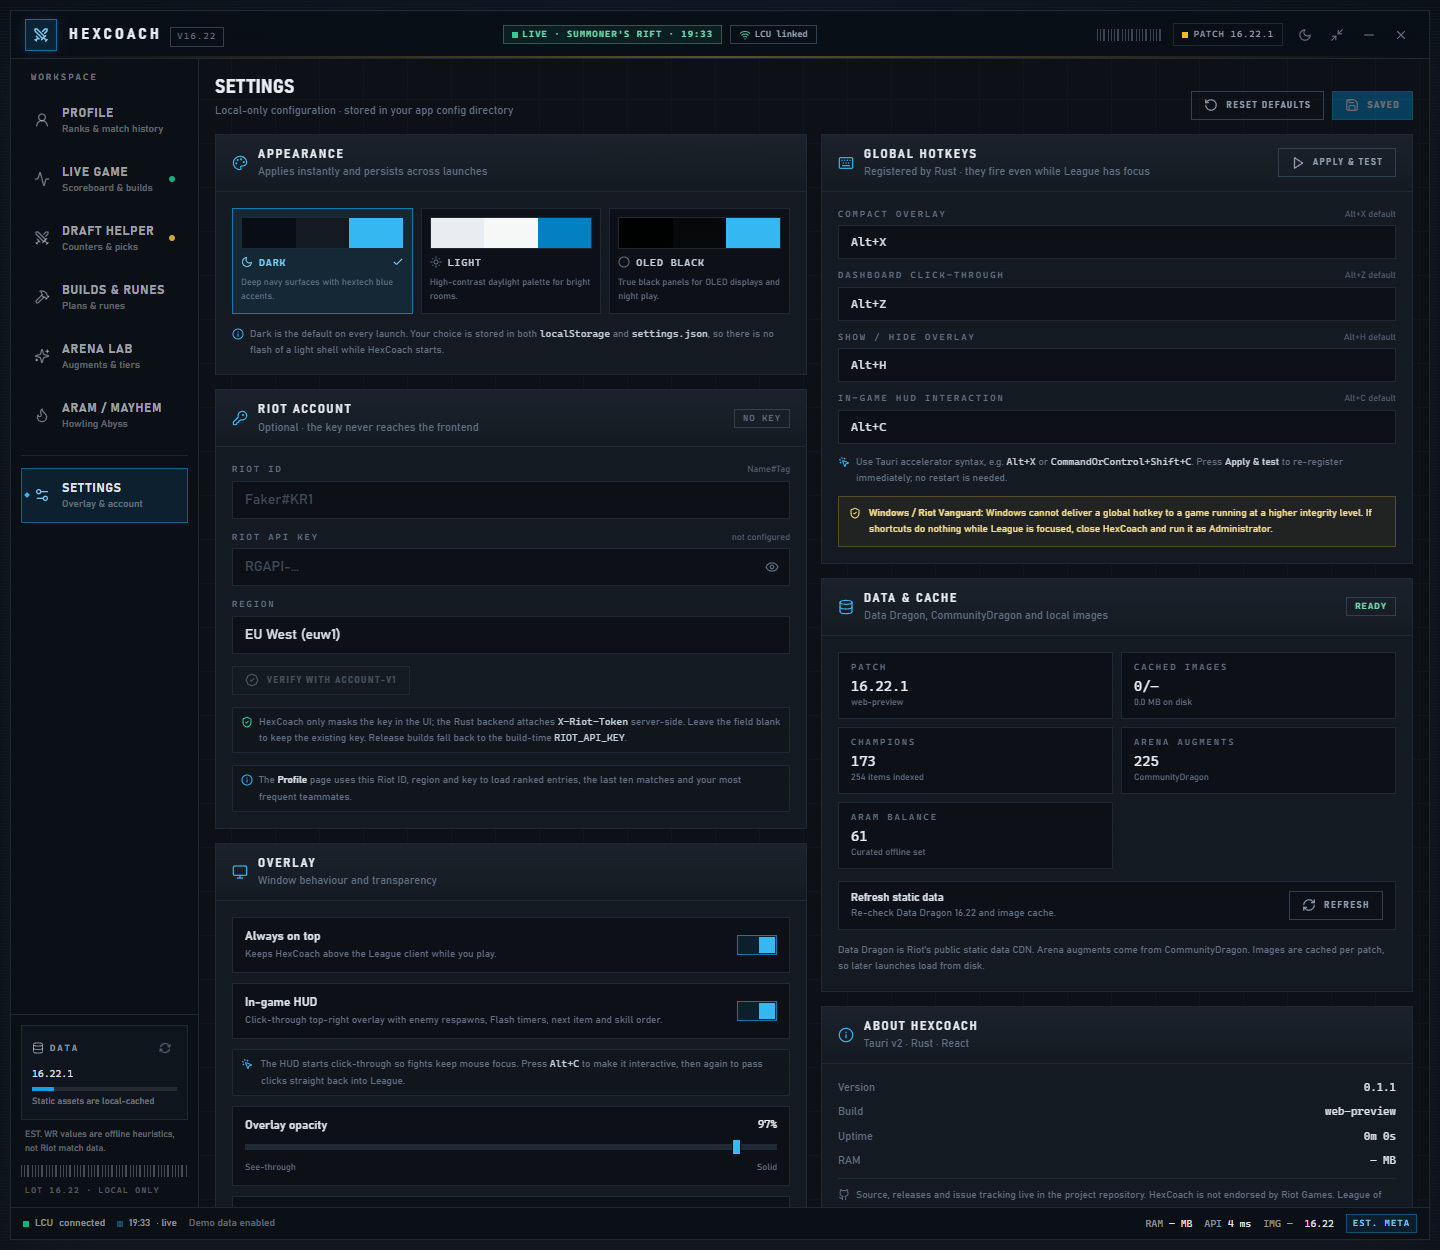
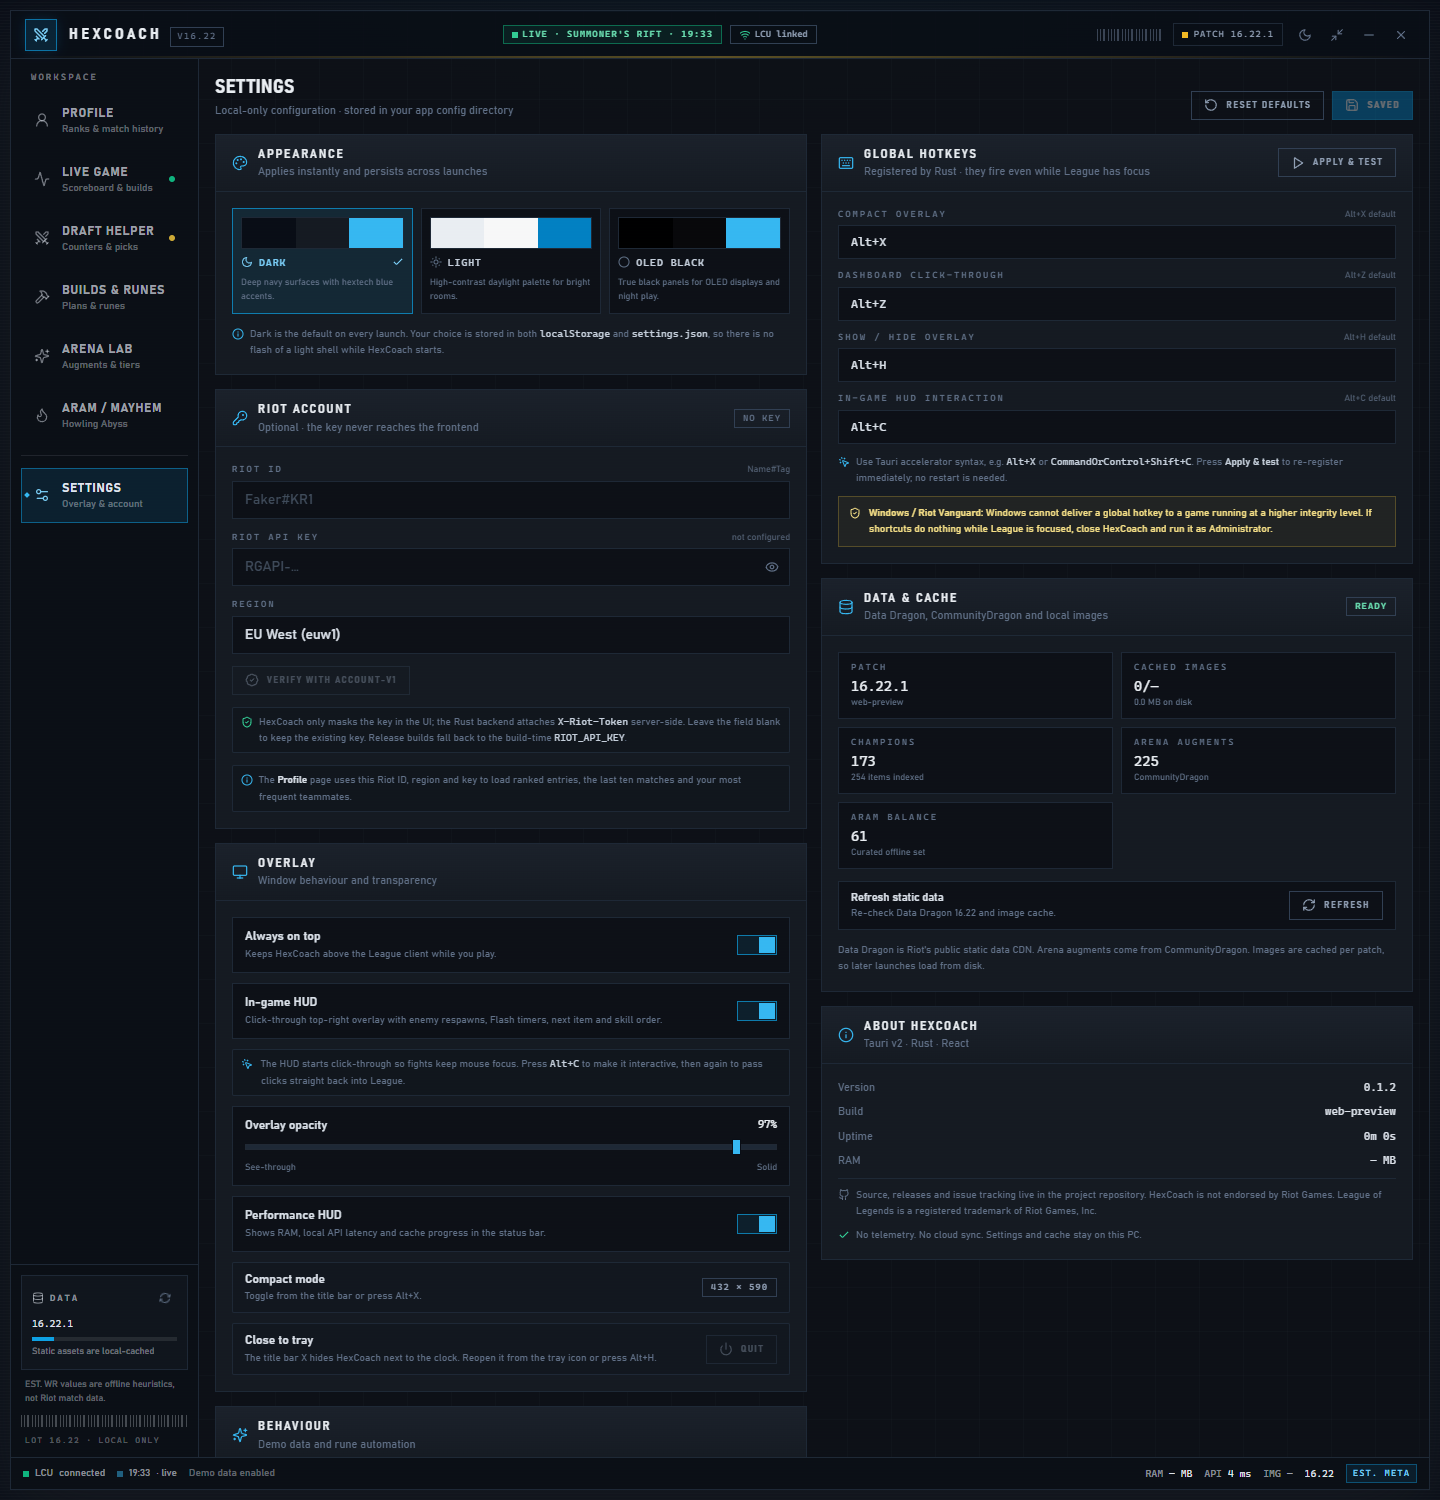
feat: minimize to system tray on close, release v0.1.2

diff --git a/src/pages/Settings.tsx b/src/pages/Settings.tsx
@@ -16,6 +16,7 @@ import {
   MousePointerClick,
   Palette,
   Play,
+  Power,
   RefreshCw,
   RotateCcw,
   Save,
@@ -25,7 +26,7 @@ import {
   Trash2,
 } from "lucide-react";
 import { DEFAULT_SETTINGS, REGIONS } from "@/lib/defaults";
-import { fetchRiotApi } from "@/lib/api";
+import { errorMessage, fetchRiotApi, quitApp } from "@/lib/api";
 import { isDesktop } from "@/lib/env";
 import { cn, shortPatch } from "@/lib/format";
 import { THEME_OPTIONS } from "@/lib/theme";
@@ -161,6 +162,14 @@ export default function SettingsPage() {
       region: draft.region,
     });
     pushToast("info", "Defaults restored", "Review the values, then save to apply.");
+  };
+
+  const quitHexCoach = async () => {
+    try {
+      await quitApp();
+    } catch (error) {
+      pushToast("error", "Could not quit HexCoach", errorMessage(error));
+    }
   };
 
   const applyHotkeyChanges = async () => {
@@ -468,6 +477,25 @@ export default function SettingsPage() {
               </div>
               <span className="chip">432 × 590</span>
             </div>
+            <div className="flex items-center justify-between gap-3 rounded-lg border border-line bg-abyss/30 px-3 py-2">
+              <div className="min-w-0">
+                <p className="text-xs font-semibold text-slate-200">Close to tray</p>
+                <p className="mt-0.5 text-[10px] leading-relaxed text-fog">
+                  The title bar X hides HexCoach next to the clock. Reopen it from the tray icon or press{" "}
+                  {draft.hotkeys.toggleVisibility}.
+                </p>
+              </div>
+              <button
+                type="button"
+                className="btn btn-ghost shrink-0"
+                onClick={() => void quitHexCoach()}
+                disabled={!isDesktop()}
+                title="Stop HexCoach completely (the X only hides it to the tray)"
+              >
+                <Power className="h-3.5 w-3.5" />
+                Quit
+              </button>
+            </div>
           </Panel>
 
           <Panel icon={Sparkles} title="Behaviour" subtitle="Demo data and rune automation" bodyClassName="space-y-2.5 p-3">
@@ -656,7 +684,7 @@ export default function SettingsPage() {
           <Panel icon={Info} title="About HexCoach" subtitle="Tauri v2 · Rust · React" bodyClassName="space-y-2 p-3">
             <div className="flex items-center justify-between text-[11px]">
               <span className="text-fog">Version</span>
-              <span className="font-mono text-slate-200">{appInfo?.version ?? "0.1.1"}</span>
+              <span className="font-mono text-slate-200">{appInfo?.version ?? "0.1.2"}</span>
             </div>
             <div className="flex items-center justify-between text-[11px]">
               <span className="text-fog">Build</span>

diff --git a/src/components/TitleBar.tsx b/src/components/TitleBar.tsx
@@ -36,12 +36,30 @@ async function windowAction(action: "minimize" | "close") {
 }
 
 export default function TitleBar() {
-  const { bootstrap, live, settings, ddragon, compact, setCompact, lcu, theme, setTheme } = useApp();
+  const { bootstrap, live, settings, ddragon, compact, setCompact, lcu, theme, setTheme, pushToast } = useApp();
   const { Icon: ThemeIcon, label: themeLabel } = THEME_META[theme];
 
   function cycleTheme() {
     const index = THEME_CYCLE.indexOf(theme);
     setTheme(THEME_CYCLE[(index + 1) % THEME_CYCLE.length]);
+  }
+
+  // The Rust side intercepts CloseRequested and hides the window instead of
+  // exiting. Explain that once, on the first close, while the window is still
+  // visible long enough to read the toast.
+  async function closeToTray() {
+    if (!isDesktop()) return;
+    const hintKey = "hexcoach.trayHintShown.v1";
+    if (!localStorage.getItem(hintKey)) {
+      localStorage.setItem(hintKey, "1");
+      pushToast(
+        "info",
+        "Running in the tray",
+        "HexCoach keeps running next to the clock. Reopen it from the tray icon; quit it from the tray menu or Settings.",
+      );
+      await new Promise((resolve) => window.setTimeout(resolve, 2400));
+    }
+    await windowAction("close");
   }
 
   return (
@@ -135,8 +153,8 @@ export default function TitleBar() {
         <button
           type="button"
           className="icon-btn hover:border-enemy-500/40 hover:bg-enemy-500/15 hover:text-enemy-400"
-          onClick={() => windowAction("close")}
-          title="Close HexCoach"
+          onClick={() => void closeToTray()}
+          title="Close to tray"
         >
           <X className="h-3.5 w-3.5" />
         </button>

diff --git a/src/lib/api.ts b/src/lib/api.ts
@@ -241,7 +241,13 @@ export async function refreshDdragon(): Promise<void> {
 
 export async function getAppInfo(): Promise<AppInfo> {
   if (isDesktop()) return invoke<AppInfo>("get_app_info");
-  return { version: "0.1.1", buildProfile: "web-preview" };
+  return { version: "0.1.2", buildProfile: "web-preview" };
+}
+
+// Exits the desktop app. The title bar X only hides to the tray, so Settings
+// exposes this explicit quit action backed by the `quit_app` command.
+export async function quitApp(): Promise<void> {
+  if (isDesktop()) await invoke("quit_app");
 }
 
 export { EMPTY_LIVE, EMPTY_SELECT };

diff --git a/src-tauri/src/lib.rs b/src-tauri/src/lib.rs
@@ -14,7 +14,59 @@ mod shortcuts;
 mod util;
 
 use std::time::Duration;
-use tauri::Manager;
+use tauri::{
+    menu::{Menu, MenuItem},
+    tray::{MouseButton, MouseButtonState, TrayIconBuilder, TrayIconEvent},
+    Manager, WindowEvent,
+};
+
+/// Brings the main dashboard back from the tray, restoring it from a minimized
+/// or hidden state and giving it keyboard focus.
+fn show_main_window(app: &tauri::AppHandle) {
+    if let Some(window) = app.get_webview_window("main") {
+        let _ = window.show();
+        let _ = window.unminimize();
+        let _ = window.set_focus();
+    }
+}
+
+/// Creates the notification-area icon and its context menu. The menu is the
+/// only place that fully quits the app; closing the window merely hides it.
+fn init_tray(app: &tauri::AppHandle) -> tauri::Result<()> {
+    let show = MenuItem::with_id(app, "show", "Otvoriť HexCoach", true, None::<&str>)?;
+    let quit = MenuItem::with_id(app, "quit", "Ukončiť aplikáciu", true, None::<&str>)?;
+    let menu = Menu::with_items(app, &[&show, &quit])?;
+
+    TrayIconBuilder::with_id("hexcoach-tray")
+        .icon(
+            app.default_window_icon()
+                .expect("HexCoach bundle is missing its window icon")
+                .clone(),
+        )
+        .tooltip("HexCoach")
+        .menu(&menu)
+        .show_menu_on_left_click(false)
+        .on_menu_event(|app, event| match event.id.as_ref() {
+            "show" => show_main_window(app),
+            "quit" => app.exit(0),
+            _ => {}
+        })
+        .on_tray_icon_event(|tray, event| match event {
+            TrayIconEvent::Click {
+                button: MouseButton::Left,
+                button_state: MouseButtonState::Up,
+                ..
+            }
+            | TrayIconEvent::DoubleClick {
+                button: MouseButton::Left,
+                ..
+            } => show_main_window(tray.app_handle()),
+            _ => {}
+        })
+        .build(app)?;
+
+    Ok(())
+}
 
 pub struct Clients {
     pub http: reqwest::Client,
@@ -48,6 +100,8 @@ pub fn run() {
             app.manage(shortcuts::HotkeyRegistry::default());
             app.manage(commands::HudState::default());
 
+            init_tray(app.handle())?;
+
             let status = shortcuts::register(app.handle());
             if !status.all_registered() {
                 for binding in status.bindings.iter().filter(|binding| !binding.registered) {
@@ -77,6 +131,16 @@ pub fn run() {
 
             Ok(())
         })
+        .on_window_event(|window, event| {
+            // The X button closes to the notification area instead of exiting.
+            // The tray menu and Settings still expose an explicit quit.
+            if window.label() == "main" {
+                if let WindowEvent::CloseRequested { api, .. } = event {
+                    api.prevent_close();
+                    let _ = window.hide();
+                }
+            }
+        })
         .invoke_handler(tauri::generate_handler![
             ddragon::get_bootstrap,
             ddragon::get_ddragon_status,
@@ -101,6 +165,7 @@ pub fn run() {
             commands::set_overlay_clickthrough,
             commands::get_overlay_state,
             commands::set_hud_visible,
+            commands::quit_app,
         ])
         .run(tauri::generate_context!())
         .expect("error while running HexCoach");

diff --git a/src-tauri/src/commands.rs b/src-tauri/src/commands.rs
@@ -241,3 +241,10 @@ pub async fn get_app_info() -> Result<AppInfo, String> {
         },
     })
 }
+
+/// Fully exits HexCoach. Closing the title bar only hides the window to the
+/// tray, so this command backs the explicit "Quit" action in Settings.
+#[tauri::command]
+pub fn quit_app(app: AppHandle) {
+    app.exit(0);
+}

diff --git a/README.md b/README.md
@@ -60,6 +60,7 @@ Every colour is a CSS token block in `src/styles.css` (`[data-theme="dark"]`, `[
 - **Local-first data** — Data Dragon and CommunityDragon files plus images are cached per patch in the app cache directory.
 - **Performance HUD** — RAM, local API latency, patch, cache size and cached image progress.
 - **Global hotkeys** — registered by Rust through the `global-shortcut` plugin, so they work even while League owns keyboard focus: `Alt+X` compact / full overlay, `Alt+Z` dashboard click-through, `Alt+H` show / hide HexCoach, `Alt+C` in-game HUD interaction. All four are rebindable in Settings and duplicates are rejected before saving.
+- **Close to tray** — the title bar X hides HexCoach into the Windows notification area instead of quitting; live polling, hotkeys and the in-game HUD keep running in the background. Left-click or double-click the tray icon to restore the dashboard, use the tray menu (**Otvoriť HexCoach** / **Ukončiť aplikáciu**) to restore or fully exit, or press **Quit** in Settings.
 - **Themes** — Dark, Light and OLED palettes applied live through CSS tokens, including the separate in-game HUD window.
 - **Server-side Riot API proxy** — Account-v1, League-v4, Match-v5 and Summoner-v4 calls are made by Rust. The key is read from local Settings or the build-time `RIOT_API_KEY` and only ever attached as `X-Riot-Token` on the backend.
 
@@ -255,6 +256,7 @@ Settings and the Data Dragon cache live in your app config/cache directories. No
 - Appearance switches between **Dark**, **Light** and **OLED** instantly; the in-game HUD window follows the same theme.
 - Global hotkeys use Tauri accelerator syntax, e.g. `CommandOrControl+Shift+C`. Defaults are `Alt+X` (compact), `Alt+Z` (dashboard click-through), `Alt+H` (show / hide) and `Alt+C` (in-game HUD interaction), and they work globally even while League has focus.
 - Saving hotkeys re-registers them immediately; Windows conflicts (an accelerator already owned by another app) are reported per binding in Settings instead of failing silently.
+- Closing the window with the title bar X hides HexCoach to the system tray. The tray icon restores it; the tray menu and the **Quit** button in Settings stop the process completely.
 - The Riot key field is write-only: it is blank on load, and blank means "keep the saved key".
 
 ## License
